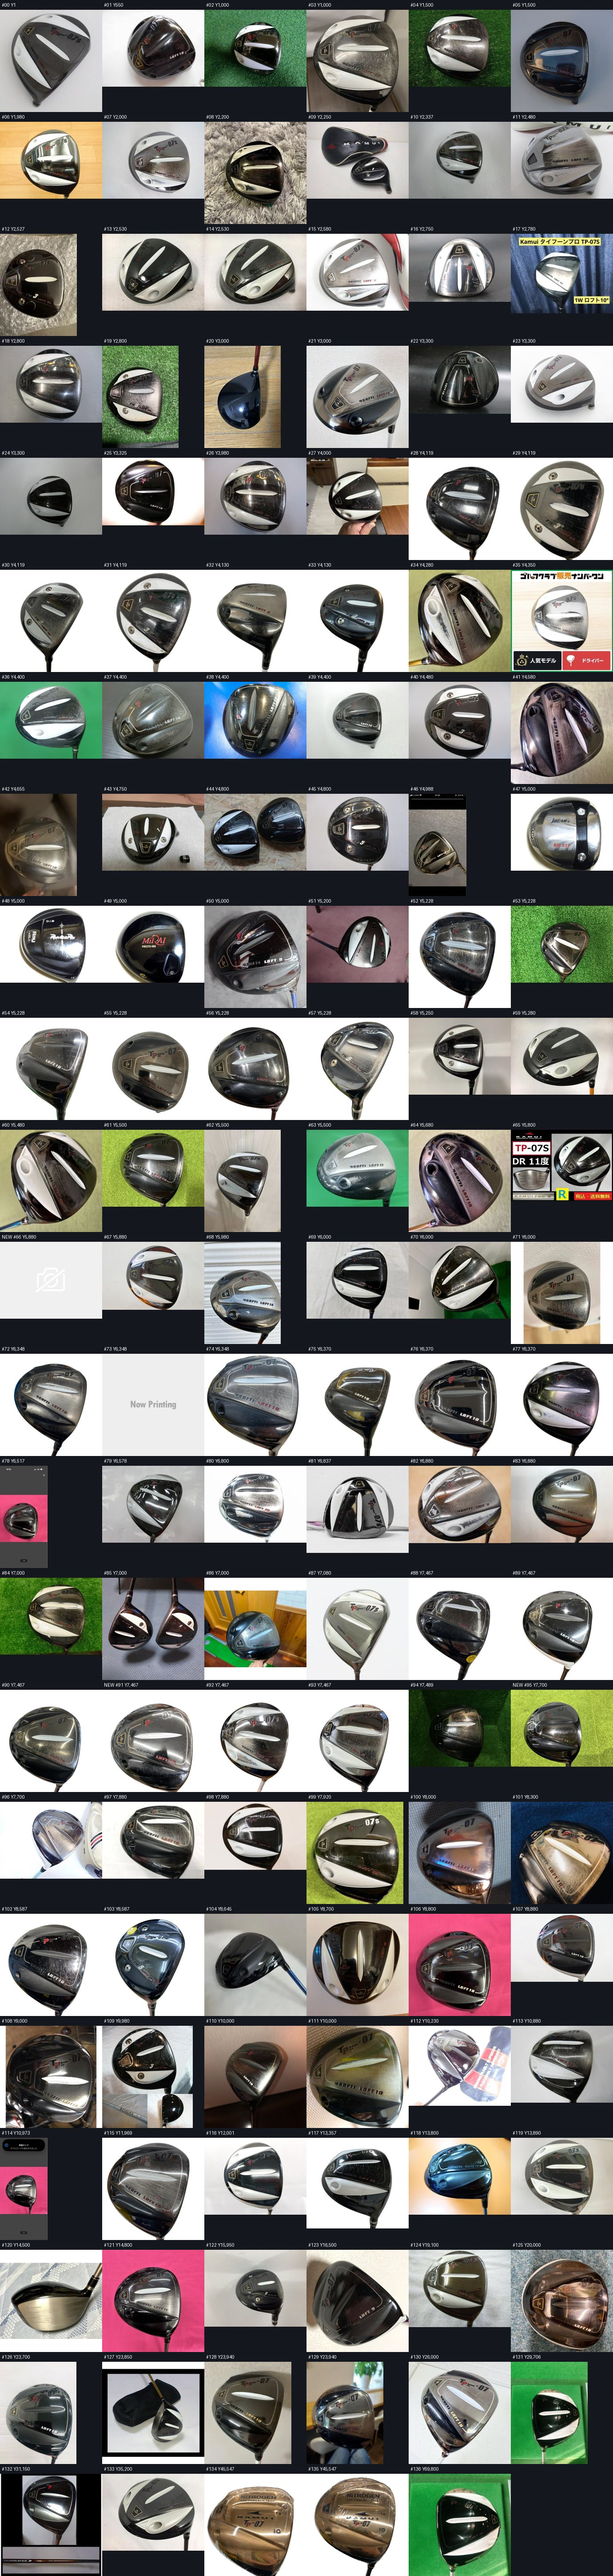
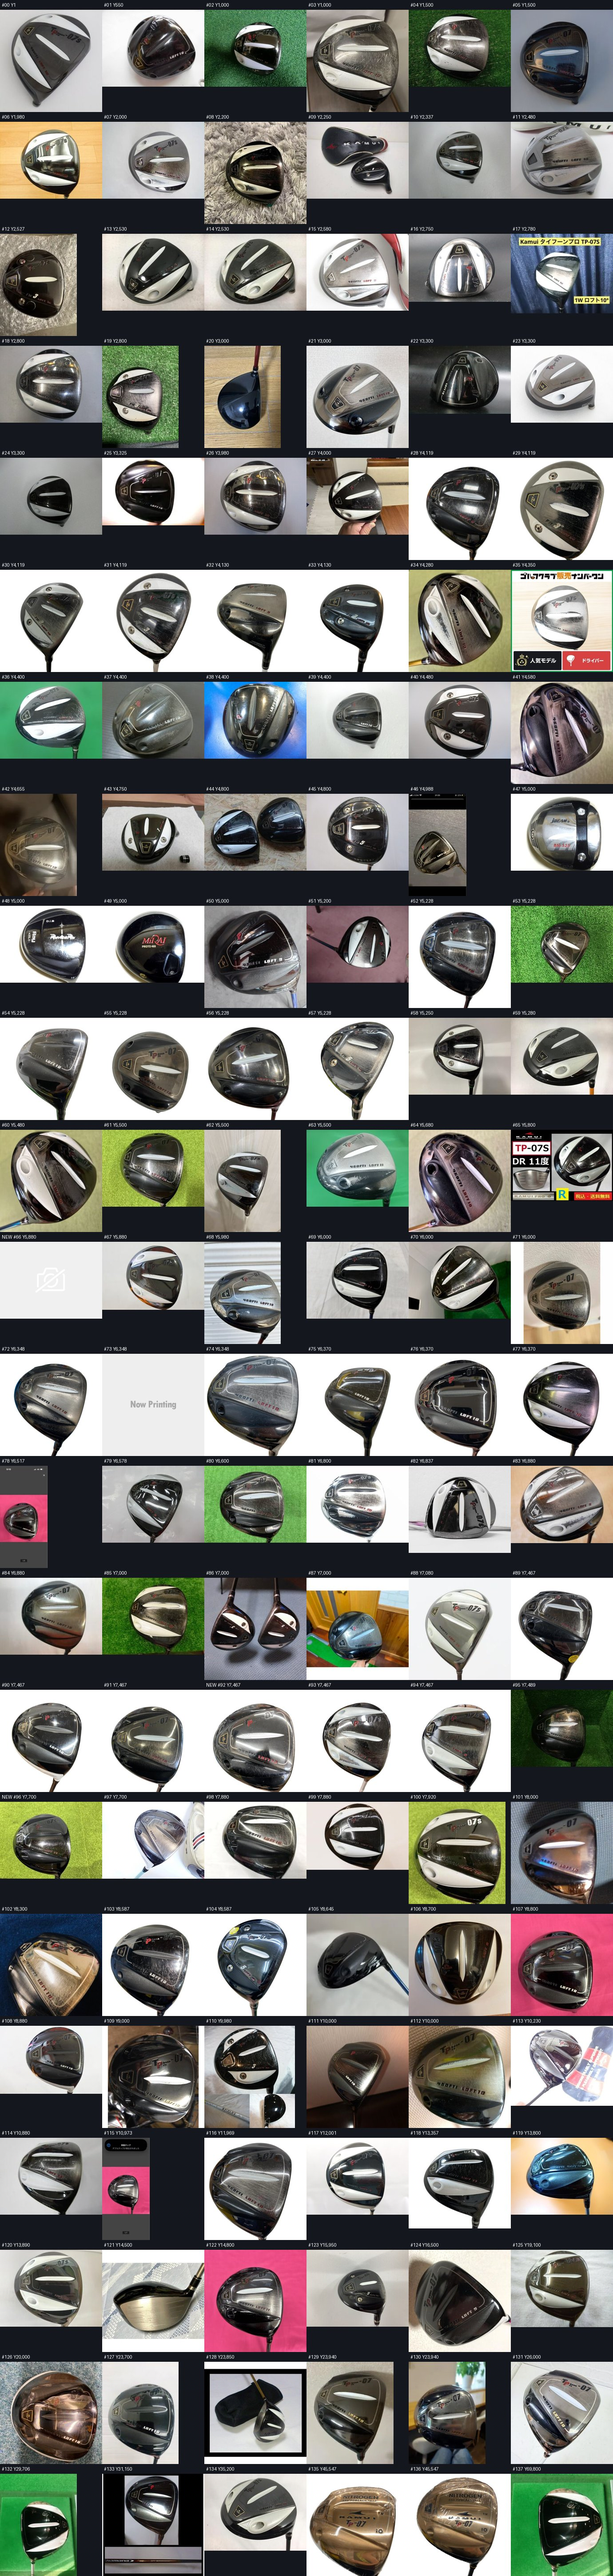
auto scan 2026-08-05 19:30UTC

Changed region(s): [[0.0, 0.5621, 1.0, 1.0]]

diff --git a/index.html b/index.html
@@ -48,10 +48,10 @@
 </style></head><body>
 <header>
   <h1>🌀 カムイ TP-07 金ロフト・ガスのみ ハンター</h1>
-  <div class="sub">最終スキャン 2026-08-05 23:08（JST）・GP／ゴルフドゥ／ヤフオク／Yahoo!フリマ／ラクマ／メルカリ</div>
+  <div class="sub">最終スキャン 2026-08-06 04:29（JST）・GP／ゴルフドゥ／ヤフオク／Yahoo!フリマ／ラクマ／メルカリ</div>
   <div class="stats">
-    <div class="stat">候補 <b>161</b></div>
-    <div class="stat">🟢買える <b>110</b></div>
+    <div class="stat">候補 <b>162</b></div>
+    <div class="stat">🟢買える <b>111</b></div>
     <div class="stat">⭐新着 <b>3</b></div>
     <div class="stat">金ロフト濃厚 <b>4</b></div>
   </div>
@@ -903,6 +903,21 @@
           <div class="title">カムイKAMUI◆TP-07s 9度 661EVOLUTION 青エボ(S) リシャフト品 お買い得</div>
           <div class="loft check">要確認（写真で目視）</div>
           <div class="price">¥6,578</div>
+          <div class="meta">ヤフオク</div>
+          <div class="shaft"></div>
+        </div>
+      </a>
+
+      <a class="card check" href="https://auctions.yahoo.co.jp/jp/auction/1235193222" target="_blank" rel="noopener">
+        <div class="imgwrap">
+          <img loading="lazy" src="https://auc-pctr.c.yimg.jp/i/auctions.c.yimg.jp/images.auctions.yahoo.co.jp/image/dr000/auc0206/user/4de85e37f2cc010ee64b5d765ea5758a79581da8e31f1e79dbb068181bd11d56/i-img1200x900-17826404069651ovogyg174478.jpg?pri=l&amp;w=300&amp;h=300&amp;up=0&amp;nf_src=sy&amp;nf_path=images/auc/pc/top/image/1.0.3/na_170x170.png&amp;nf_st=200" alt=""
+               onerror="this.style.opacity=.15;this.alt='画像なし'">
+          <span class="b buy">買える</span>
+        </div>
+        <div class="body">
+          <div class="title">KAMUI Typhoon Pro TP-07 ドライバー</div>
+          <div class="loft check">要確認（写真で目視）</div>
+          <div class="price">¥6,600</div>
           <div class="meta">ヤフオク</div>
           <div class="shaft"></div>
         </div>
